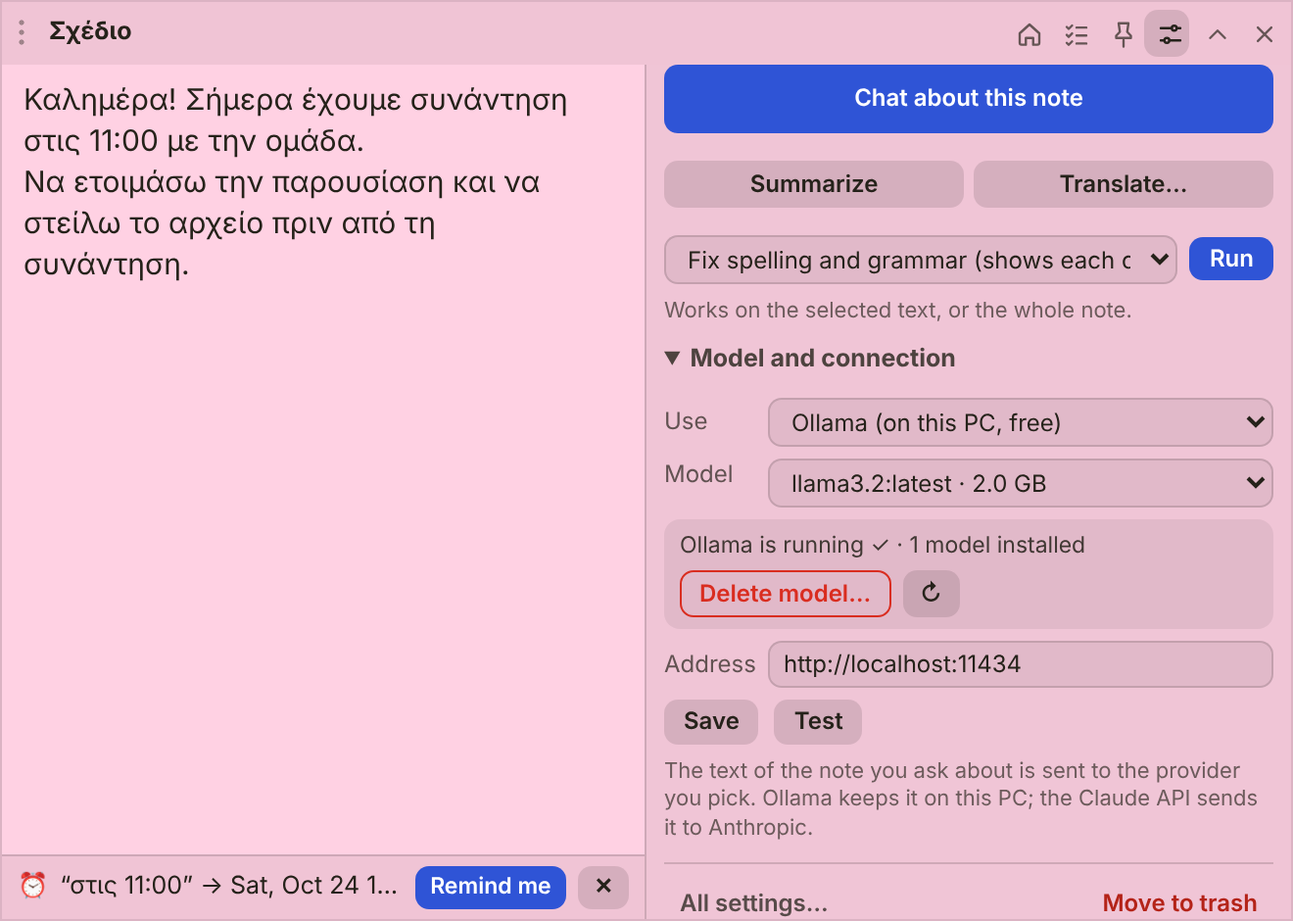
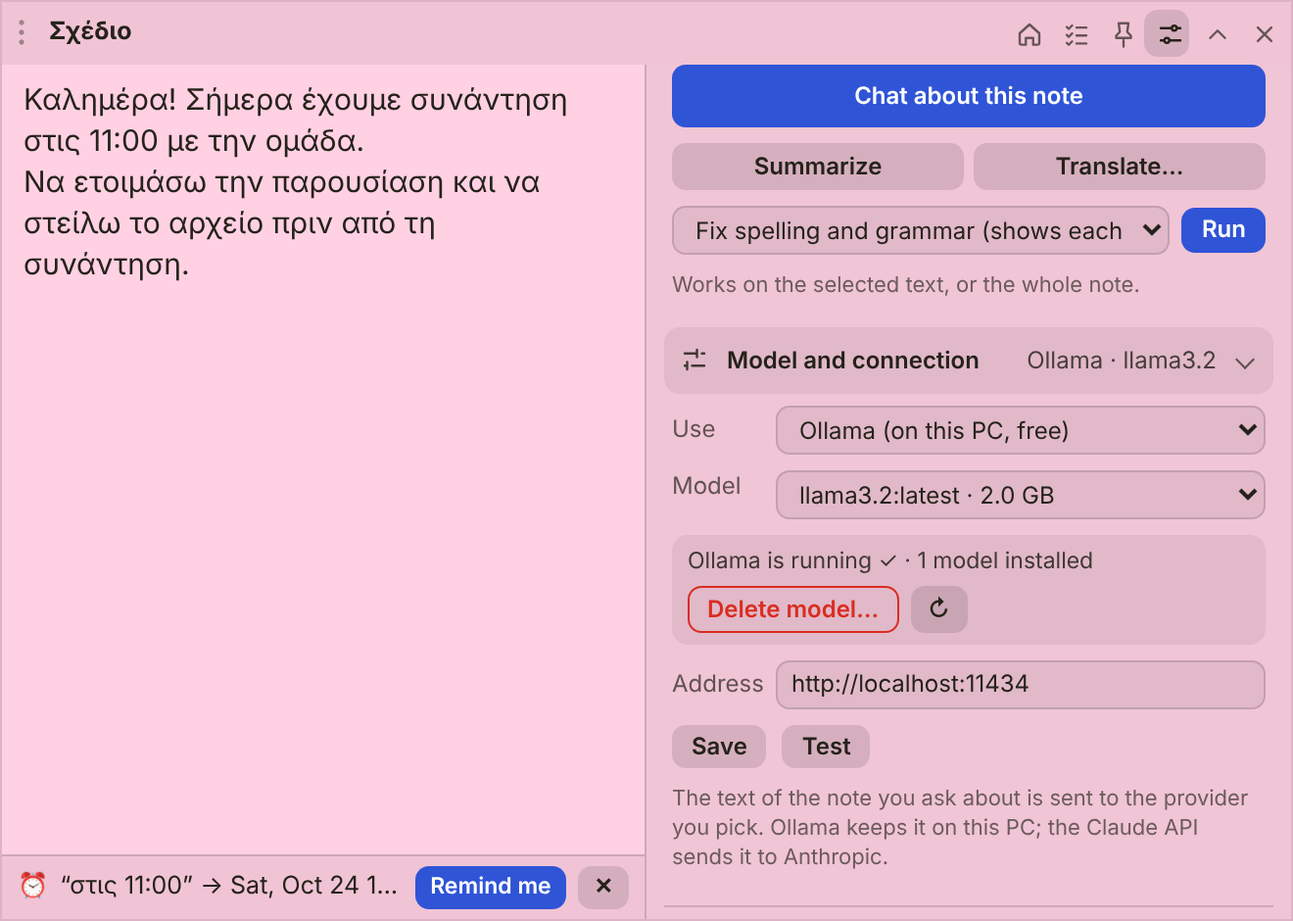
1.15.0 fixes: chat answers in the user's language, AI and Model rows, inline Translate list, Chat button off with AI, side snap also when the note is pushed past the edge
Claude-Session: https://claude.ai/code/session_01QuaePSCNKfBKv36b3rMdtf

diff --git a/note.html b/note.html
@@ -79,23 +79,34 @@
     <div class="pbody"><div class="line"><button id="copyTxt" class="btn" title="Copy the whole note as plain text (Ctrl+Shift+T)">Copy note as text</button><button id="exportBtn" class="btn" title="Save this note as a Markdown or text file">Export…</button><button id="printBtn" class="btn" title="Print this note (Ctrl+P)">Print…</button></div><p id="exportMsg" class="hint"></p></div>
   </details>
 
-  <div class="ph"><span>AI</span></div>
-  <button id="aiChat" class="btn primary aibig" title="Open the AI chat with this note as context">Chat about this note</button>
-  <div class="aibtns"><button id="aiSum" class="btn" title="Short summary of the selected text, or the whole note">Summarize</button><button id="aiTr" class="btn" title="Translate the selected text, or the whole note">Translate…</button></div>
-  <div class="line airun">
-    <select id="aiAction" class="field" aria-label="More AI actions">
-      <option value="grammar">Fix spelling and grammar (shows each change)</option><option value="checklist">Turn into a checklist</option><option value="title">Suggest a title</option>
-      <option value="polish">Polish the writing</option><option value="shorten">Make it shorter</option><option value="friendly">Make it friendlier</option><option value="fix">Fix it right in the note</option><option value="continue">Continue writing</option>
-    </select>
-    <button id="aiRun" class="btn primary" title="Run on the selected text, or the whole note (Ctrl+Shift+E edits live)">Run</button>
-  </div>
-  <p id="aiHint" class="hint"></p>
+  <details class="prow free" id="rowAI" open><summary><svg class="i" viewBox="0 0 24 24" aria-hidden="true"><path d="M12 4l1.8 4.6L18.5 10l-4.7 1.4L12 16l-1.8-4.6L5.5 10l4.7-1.4zM18.5 15.5l.8 2 2 .8-2 .8-.8 2-.8-2-2-.8 2-.8z"/></svg><span class="k">AI</span><span class="v" id="aiState"></span></summary>
+    <div class="pbody wide">
+<button id="aiChat" class="btn primary aibig" title="Open the AI chat with this note as context">Chat about this note</button>
+    <div class="aibtns"><button id="aiSum" class="btn" title="Short summary of the selected text, or the whole note">Summarize</button><button id="aiTr" class="btn" title="Translate the selected text, or the whole note">Translate…</button></div>
+    <div id="trmenu" class="trinline" hidden role="group" aria-label="Translate">
+  <div class="trhead"><b>Translate into</b><button id="trClose" class="iconbtn" aria-label="Close">✕</button></div>
+  <div class="trfrom"><span class="k">From</span><span id="trFrom" class="v"></span><span class="tag">AUTO</span></div>
+  <label class="trto"><span class="k">To</span><input id="trSearch" class="field" autocomplete="off" spellcheck="false" placeholder="Search languages" aria-label="Search languages"></label>
+  <div id="trList" class="trlist" role="listbox" aria-label="Translate into"></div>
+  <p class="hint">Greek ⇄ English works best. Small models on your PC are weaker with the other languages.</p>
+</div>
+      <div class="line airun">
+      <select id="aiAction" class="field" aria-label="More AI actions">
+        <option value="grammar">Fix spelling and grammar (shows each change)</option><option value="checklist">Turn into a checklist</option><option value="title">Suggest a title</option>
+        <option value="polish">Polish the writing</option><option value="shorten">Make it shorter</option><option value="friendly">Make it friendlier</option><option value="fix">Fix it right in the note</option><option value="continue">Continue writing</option>
+      </select>
+      <button id="aiRun" class="btn primary" title="Run on the selected text, or the whole note (Ctrl+Shift+E edits live)">Run</button>
+    </div>
+    <p id="aiHint" class="hint"></p>
+    </div>
+  </details>
   <div id="aiLegacy" hidden>
     <button id="aiFix">Fix grammar</button><button id="aiList">To checklist</button><button id="aiTitle">Title</button>
     <select id="editMode" aria-label="How to edit"><option value="fix">Fix spelling and grammar</option><option value="polish">Polish the writing</option><option value="shorten">Make it shorter</option><option value="friendly">Make it friendlier</option><option value="translate">Translate Greek ⇄ English</option><option value="continue">Continue writing</option></select>
     <button id="aiEdit">Edit live</button>
   </div>
-  <details id="aiSetup" class="setup"><summary>Model and connection</summary>
+  <details id="aiSetup" class="prow free"><summary><svg class="i" viewBox="0 0 24 24" aria-hidden="true"><path d="M4 7h10M18 7h2M4 17h2M10 17h10M14 4v6M6 14v6"/></svg><span class="k">Model and connection</span><span class="v" id="aiSetupState"></span></summary>
+    <div class="pbody wide">
     <label class="row"><span>Use</span><select id="aiProv" class="field" aria-label="AI provider">
       <option value="off">Off</option><option value="ollama">Ollama (on this PC, free)</option><option value="claude">Claude API (online)</option></select></label>
     <div class="row top"><span>Model</span><div class="mcol"><select id="aiModelSel" class="field" aria-label="Model" hidden></select><input id="aiModel" class="field" autocomplete="off" spellcheck="false" aria-label="Model name"></div></div>
@@ -104,7 +115,7 @@
     <div class="line"><button id="aiSave" class="btn">Save</button><button id="aiTest" class="btn">Test</button><button id="aiClear" class="btn" hidden>Forget key</button></div>
     <p id="aiMsg" class="hint"></p>
     <p class="hint">The text of the note you ask about is sent to the provider you pick. Ollama keeps it on this PC; the Claude API sends it to Anthropic.</p>
-    </details>
+    </div></details>
   <div class="pfoot"><button id="allSet" class="linkbtn" title="Settings for the whole app (Ctrl+,)">All settings…</button><button id="del" class="linkbtn danger" title="Move this note to the trash">Move to trash</button></div>
 </section>
 
@@ -118,13 +129,6 @@
 
 <div id="editbar" hidden role="status"><span class="spin"></span><b id="editMsg">Editing…</b><span class="grow"></span><button id="editStop" class="btn">Stop</button><button id="editUndo" class="btn" hidden>Undo</button><button id="editKeep" class="btn primary" hidden>Keep</button></div>
 
-<div id="trmenu" hidden role="dialog" aria-label="Translate">
-  <div class="trhead"><b>Translate</b><button id="trClose" class="iconbtn" aria-label="Close">✕</button></div>
-  <div class="trfrom"><span class="k">From</span><span id="trFrom" class="v"></span><span class="tag">AUTO</span></div>
-  <label class="trto"><span class="k">To</span><input id="trSearch" class="field" autocomplete="off" spellcheck="false" placeholder="Search languages" aria-label="Search languages"></label>
-  <div id="trList" class="trlist" role="listbox" aria-label="Translate into"></div>
-  <p class="hint">Greek ⇄ English works best. Small models on your PC are weaker with the other languages.</p>
-</div>
 <div id="aibox" hidden role="dialog" aria-label="AI result">
   <div class="aihead"><b id="aiTitle"></b></div>
   <div id="aiBody" class="aibody"></div>

diff --git a/note.js b/note.js
@@ -972,7 +972,7 @@ $('#aiEdit').onclick = liveEdit;
 // Translate…: a small menu. The note's language is detected here and shown as "Greek (Auto-detected)"; that language is greyed out in the list.
 let trTo = null;
 const trMenu = $('#trmenu');
-function trClose() { trMenu.hidden = true; }
+function trClose() { trMenu.hidden = true; $('#aiTr').setAttribute('aria-expanded', 'false'); }
 function trRender(src) {
   const q = $('#trSearch').value.trim().toLowerCase(), box = $('#trList'); box.textContent = '';
   let last = ''; try { last = localStorage.getItem('sp.trTo') || ''; } catch (e) {}
@@ -990,24 +990,24 @@ function trRender(src) {
 }
 function trOpen() {
   if (edit || aiBusy || bodyLocked()) return;
+  if (!trMenu.hidden) { trClose(); return; }   // the button opens and closes the list
   if (!aiCfgState || aiCfgState.provider === 'off') { liveEdit(); return; }   // shows the "turn the AI on" hint
   const t = editTarget('translate');
   if (t.err) { aiShow('Translate', t.err, [['Close', aiClose, true]]); return; }
   const src = StickyLangs.detect(t.text);
   $('#trFrom').textContent = src ? src.name + ' (Auto-detected)' : 'Auto-detected';
   $('#trSearch').value = ''; trRender(src);
-  $('#panel').hidden = true; $('#cfg').setAttribute('aria-expanded', 'false');
-  trMenu.hidden = false; trMenu._src = src;
+  trMenu.hidden = false; trMenu._src = src; $('#aiTr').setAttribute('aria-expanded', 'true'); trMenu.scrollIntoView({ block: 'nearest' });
   const pick = trMenu.querySelector('.tritem[aria-selected="true"]:not(:disabled)') || trMenu.querySelector('.tritem:not(:disabled)');
   (pick || $('#trSearch')).focus();
 }
 function trGo(code) { trClose(); trTo = code; $('#editMode').value = 'translate'; liveEdit().finally(() => { trTo = null; }); }
 $('#aiTr').onclick = trOpen;
-$('#trClose').onclick = () => { trClose(); ed.focus(); };
+$('#trClose').onclick = () => { trClose(); $('#aiTr').focus(); };
 $('#trSearch').addEventListener('input', () => trRender(trMenu._src));
 trMenu.addEventListener('keydown', e => {
   const items = [...trMenu.querySelectorAll('.tritem:not(:disabled)')], i = items.indexOf(document.activeElement);
-  if (e.key === 'Escape') { e.preventDefault(); e.stopPropagation(); trClose(); ed.focus(); }
+  if (e.key === 'Escape') { e.preventDefault(); e.stopPropagation(); trClose(); $('#aiTr').focus(); }
   else if (e.key === 'ArrowDown') { e.preventDefault(); (items[i + 1] || items[0] || $('#trSearch')).focus(); }
   else if (e.key === 'ArrowUp') { e.preventDefault(); if (i <= 0) $('#trSearch').focus(); else items[i - 1].focus(); }
   else if (e.key === 'Enter' && document.activeElement === $('#trSearch') && items[0]) { e.preventDefault(); items[0].click(); }
@@ -1015,8 +1015,10 @@ trMenu.addEventListener('keydown', e => {
 ed.addEventListener('input', () => { if (!editBar.hidden && !edit) editBarHide(); });
 function updateAiButtons() {
   const off = !aiCfgState || aiCfgState.provider === 'off', locked = bodyLocked();
-  $('#aiTitle').disabled = $('#aiSum').disabled = $('#aiFix').disabled = $('#aiList').disabled = $('#aiEdit').disabled = $('#aiTr').disabled = off || locked; $('#aiChat').disabled = locked; $('#aiRun').disabled = $('#aiAction').disabled = off || locked;
-  if (off) $('#aiSetup').open = true;
+  $('#aiTitle').disabled = $('#aiSum').disabled = $('#aiFix').disabled = $('#aiList').disabled = $('#aiEdit').disabled = $('#aiTr').disabled = off || locked; $('#aiChat').disabled = off || locked; $('#aiRun').disabled = $('#aiAction').disabled = off || locked;
+  if (off) { $('#aiSetup').open = true; if (!trMenu.hidden) trClose(); }
+  const prov = aiCfgState && aiCfgState.provider, label = off ? 'Off' : prov === 'claude' ? 'Claude' : 'Ollama' + (aiCfgState.model ? ' · ' + aiCfgState.model : '');
+  $('#aiState').textContent = locked ? 'Locked' : off ? 'Off' : 'On'; $('#aiSetupState').textContent = label;
   $('#aiHint').textContent = locked ? 'Unlock this note first.' : off ? 'Turn the AI on under Model and connection below.' : 'Works on the selected text, or the whole note.';
   if (!locked && !off) modelCheck();
 }
@@ -1098,6 +1100,7 @@ function warmModel() {   // opening the AI tab means you are about to use it: lo
 // The panel is one list (Look, This note, AI). showTab only brings a part into view; the AI part is always ready.
 function showTab(t) {
   aiLoad();
+  if (t === 'ai') $('#rowAI').open = true;
   const target = t === 'ai' ? $('#aiAction') : t === 'note' ? $('#rowRem') : null;
   if (target) target.scrollIntoView({ block: 'nearest' });
 }
@@ -1112,9 +1115,9 @@ try { const last = localStorage.getItem('sp.aiAction'); if (last && $('#aiAction
 $('#aiAction').addEventListener('change', () => { try { localStorage.setItem('sp.aiAction', $('#aiAction').value); } catch (e) {} });
 ['pointerenter', 'focus'].forEach(ev => { $('#aiAction').addEventListener(ev, warmModel); $('#aiRun').addEventListener(ev, warmModel); });   // load the local model only when you are about to use it
 // only one row of "This note" open at a time; opening Earlier versions loads them
-document.querySelectorAll('#panel details.prow').forEach(d => d.addEventListener('toggle', () => {
+document.querySelectorAll('#panel details.prow:not(.free)').forEach(d => d.addEventListener('toggle', () => {
   if (!d.open) return;
-  document.querySelectorAll('#panel details.prow').forEach(o => { if (o !== d) o.open = false; });
+  document.querySelectorAll('#panel details.prow:not(.free)').forEach(o => { if (o !== d) o.open = false; });
   if (d.id === 'rowHist' && $('#histBox').hidden) histOpen();
 }));
 $('#close').onclick = () => { if (timer) saveNow(); api.close(); };

diff --git a/note.css b/note.css
@@ -140,8 +140,7 @@ body.rolled #aibox{display:none}
 /* themes, AI button grid, checklist preview */
 .aibtns{display:grid;grid-template-columns:1fr 1fr;gap:8px}
 .aibtns .btn{white-space:nowrap;padding:7px 6px}
-#aiChat.aibig{display:block;width:100%;margin:2px 0 8px;padding:9px 10px;font-weight:600}
-.ph+#aiChat+.aibtns{margin-bottom:8px}
+#aiChat.aibig{display:block;width:100%;margin:0;padding:8px 10px;font-weight:600}
 .themes{display:flex;gap:6px;overflow-x:auto;padding:1px 1px 6px}
 .themes::-webkit-scrollbar{height:6px}
 .theme{flex:none;width:84px;display:flex;flex-direction:column;align-items:flex-start;gap:5px;padding:6px 8px;border:1.5px solid var(--line);border-radius:10px;background:none;color:inherit;font:inherit;font-size:11.5px;font-weight:600;cursor:pointer;text-align:left}
@@ -306,23 +305,24 @@ header{transition:opacity .12s}
 html.quiet header{opacity:0;transition:opacity .7s ease .1s}
 html.a11y-motion.quiet header{transition:none}
 
-/* Translate menu */
-#trmenu{position:absolute;z-index:7;left:8px;right:8px;bottom:8px;max-height:86%;display:flex;flex-direction:column;gap:7px;padding:10px 12px;border-radius:14px;background:linear-gradient(var(--tint),var(--tint)),var(--bg);border:1px solid var(--line);box-shadow:0 10px 28px rgba(0,0,0,.3);font-size:13px}
-#trmenu[hidden]{display:none}
-.trhead{display:flex;align-items:center;justify-content:space-between;font-size:13px}
-.trhead .iconbtn{border:0;background:none;color:inherit;font:inherit;cursor:pointer;padding:2px 6px;border-radius:6px;opacity:.7}
-.trhead .iconbtn:hover{background:var(--tint)}
-.trfrom{display:flex;align-items:center;gap:8px;padding:6px 8px;border-radius:8px;background:var(--tint)}
-.trfrom .k,.trto .k{width:34px;opacity:.65;font-size:12px}
+/* Translate menu: a small list that opens inside the AI part of the panel */
+.pbody.wide{padding:6px 4px 8px}
+#aiSetup>.pbody>*:not(summary){margin-top:0}
+.trinline{display:flex;flex-direction:column;gap:6px;padding:7px;border-radius:10px;background:var(--tint);font-size:12.5px}
+.trinline[hidden]{display:none}
+.trhead{display:flex;align-items:center;justify-content:space-between;font-size:12px}
+.trhead .iconbtn{border:0;background:none;color:inherit;font:inherit;cursor:pointer;padding:1px 6px;border-radius:6px;opacity:.7}
+.trhead .iconbtn:hover{background:var(--tint2)}
+.trfrom{display:flex;align-items:center;gap:6px}
+.trfrom .k,.trto .k{width:30px;opacity:.65;font-size:11.5px}
 .trfrom .v{flex:1;font-weight:600}
-.trfrom .tag{font-size:9.5px;font-weight:700;letter-spacing:.06em;padding:1px 5px;border-radius:5px;background:var(--accent);color:#fff}
-body.dark .trfrom .tag{color:#111}
-.trto{display:flex;align-items:center;gap:8px}.trto .field{flex:1;min-width:0}
-.trlist{overflow-y:auto;min-height:60px;display:flex;flex-direction:column;gap:2px}
-.tritem{display:flex;align-items:baseline;justify-content:space-between;gap:8px;text-align:left;border:0;background:none;color:inherit;font:inherit;padding:6px 8px;border-radius:8px;cursor:pointer}
+.trfrom .tag{font-size:9px;font-weight:700;letter-spacing:.06em;padding:1px 5px;border-radius:5px;background:var(--accent);color:var(--on-accent,#fff)}
+.trto{display:flex;align-items:center;gap:6px}.trto .field{flex:1;min-width:0}
+.trlist{overflow-y:auto;max-height:150px;display:flex;flex-direction:column;gap:1px}
+.tritem{display:flex;align-items:baseline;justify-content:space-between;gap:8px;text-align:left;border:0;background:none;color:inherit;font:inherit;padding:4px 7px;border-radius:7px;cursor:pointer}
 .tritem:hover:not(:disabled),.tritem:focus-visible{background:var(--tint2)}
-.tritem .nat{opacity:.65;font-size:12px}
-.tritem.last::before{content:"";}
+.tritem .nat{opacity:.65;font-size:11.5px}
 .tritem:disabled{opacity:.45;cursor:default}
 .tritem[aria-selected="true"]{outline:1.5px solid var(--accent)}
-body.rolled #trmenu{display:none}
+.trinline .hint{margin:0;font-size:11px}
+#aiChat.aibig:disabled{background:var(--tint2);color:inherit;opacity:.55;filter:none;cursor:default}

diff --git a/ai.js b/ai.js
@@ -25,8 +25,23 @@ const SYS_CHECKLIST =
   'Cover the WHOLE input, including its last lines.';
 
 const SYS_CHAT =
-  'If the user writes in Greek, answer in natural, correct Greek. You are the assistant inside StickyPad, a sticky-notes app. Be concise and friendly. Answer in the language the user writes in ' +
-  '(English or Greek). Use short paragraphs and simple lists. Do not use tables.';
+  'You are the assistant inside StickyPad, a sticky-notes app. Be concise and friendly. Use short paragraphs and simple lists. Do not use tables. ' +
+  'LANGUAGE: always answer in the language of the user\'s LATEST message, never in the language of the notes or of earlier messages. ' +
+  'If the user writes in Greek, answer in natural, correct modern Greek; if they write in English, answer in English. Only switch language when the user asks you to.';
+
+// The language the user is writing in now: the latest message that is clear enough, looking back at most 3 of their messages. null = not sure.
+function chatLanguage(messages) {
+  const us = (messages || []).filter(m => m && m.role === 'user' && typeof m.content === 'string').reverse().slice(0, 3);
+  for (const m of us) { const d = LG.detect(m.content); if (d) return d; }
+  return null;
+}
+// Small local models drift into the language of the notes or of the Greek rules. This goes at the END of the instructions (where it counts most)
+// and, for the model only, behind the user's last message.
+function chatLanguageRule(lang) {
+  if (!lang) return 'Answer in the language of the user\'s latest message, not the language of the notes.';
+  return 'The user is writing in ' + lang.name + '. Answer in ' + lang.name + ' now, even if the notes or earlier messages are in another language, unless the user asks for a different language.';
+}
+const chatLanguageTail = lang => lang ? '\n\n(Answer in ' + lang.name + ', unless I ask for another language.)' : '';
 
 // ---------- language help: Greek gets its own, much more specific instructions ----------
 const letters = t => (String(t).match(/[A-Za-z\u0370-\u03FF\u1F00-\u1FFF]/g) || []).length;
@@ -485,4 +500,4 @@ async function ping(cfg, fetchImpl = fetch) {
   return r.trim().slice(0, 40);
 }
 
-module.exports = { setLogger, thinkOff, tagFilter, translationProblem, suggestTitle, cleanTitle, keepOf, translateTarget, translateSystem, splitPieces, isGreek, ctxFor, editStream, editSystem, EDIT_MODES, warmup, summarize, fixGrammar, toChecklist, chatStream, SYS_CHAT, ping, callModel, DEFAULT_CLAUDE_MODEL, };
+module.exports = { chatLanguage, chatLanguageRule, chatLanguageTail, setLogger, thinkOff, tagFilter, translationProblem, suggestTitle, cleanTitle, keepOf, translateTarget, translateSystem, splitPieces, isGreek, ctxFor, editStream, editSystem, EDIT_MODES, warmup, summarize, fixGrammar, toChecklist, chatStream, SYS_CHAT, ping, callModel, DEFAULT_CLAUDE_MODEL, };

diff --git a/settings.html b/settings.html
@@ -53,7 +53,7 @@
   <section class="cat" id="cat-notes" data-title="Notes">
     <h2>Notes</h2>
     <div class="row"><div class="lbl"><b>Snap to edges and other notes</b><span>When you let go of a note it lines up with the screen edge or a nearby note.</span></div><div class="ctl"><input id="snap" class="toggle" type="checkbox" data-set="snap"></div></div>
-    <div class="row"><div class="lbl"><b>Snap to the sides of the screen</b><span>Let go of a note with the mouse pushed against the left or right edge to fill that half of the screen, or against the top edge to fill the whole screen. Drag it away and it gets its old size back.</span></div><div class="ctl"><input id="snapSides" class="toggle" type="checkbox" data-set="snapSides"></div></div>
+    <div class="row"><div class="lbl"><b>Snap to the sides of the screen</b><span>Let go of a note with the mouse pushed against the left or right edge (or the note itself pushed a little past it) to fill that half of the screen, or against the top edge to fill the whole screen. Drag it away and it gets its old size back.</span></div><div class="ctl"><input id="snapSides" class="toggle" type="checkbox" data-set="snapSides"></div></div>
     <div class="row"><div class="lbl"><b>Snap distance</b><span>How close a note has to be before it snaps.</span></div><div class="ctl"><input id="snapDistance" class="range" type="range" min="4" max="40" data-range="snapDistance"><output id="snapDistanceOut"></output></div></div>
     <div class="row"><div class="lbl"><b>Hide the note's buttons when idle</b><span>The title bar and buttons fade away and only the text stays. Moving the mouse over the note, typing or clicking brings them back. Off while a note's panel or search is open, and when Screen reader or High contrast is on.</span></div><div class="ctl"><select id="quietMode" class="field" aria-label="When to hide the buttons"><option value="off">Never</option><option value="away">Mouse away and not typing</option><option value="blur">Note not in use (another window active)</option><option value="both">Either of these</option></select></div></div>
     <div class="row"><div class="lbl"><b>Hide them after</b><span>How long to wait before they fade.</span></div><div class="ctl"><select id="quietDelay" class="field" aria-label="Hide after"><option value="3">3 seconds</option><option value="10">10 seconds</option><option value="30">30 seconds</option></select></div></div>

diff --git a/sidesnap.js b/sidesnap.js
@@ -4,16 +4,19 @@
 // Pure functions (tested in Node). displays: [{ id, bounds, workArea }] like Electron's; cursor: { x, y }.
 const EDGE = 6;       // how close to the screen edge the mouse has to be (pixels)
 const CORNER = 80;    // corners are left alone, so a note dropped in a corner just stays where it is
+const PUSH = 24;      // or the note itself is pushed this far past the screen edge (you do not have to get the mouse exactly onto the edge)
 const inside = (p, b) => p.x >= b.x && p.x < b.x + b.width && p.y >= b.y && p.y < b.y + b.height;
 // -> { zone: 'left' | 'right' | 'top', bounds } or null
-function zone(cursor, displays) {
+function zone(cursor, displays, win) {
   if (!cursor || !Array.isArray(displays)) return null;
   const d = displays.find(x => inside(cursor, x.bounds)); if (!d) return null;
   const b = d.bounds, wa = d.workArea;
   const other = p => displays.some(x => x !== d && inside(p, x.bounds));   // an edge that touches another screen is not the end of the desktop
-  const nearL = cursor.x <= b.x + EDGE && !other({ x: b.x - 1, y: cursor.y });
-  const nearR = cursor.x >= b.x + b.width - 1 - EDGE && !other({ x: b.x + b.width, y: cursor.y });
-  const nearT = cursor.y <= b.y + EDGE && !other({ x: cursor.x, y: b.y - 1 });
+  const pushL = !!win && win.x <= b.x - PUSH, pushR = !!win && win.x + win.width >= b.x + b.width + PUSH, pushT = !!win && win.y <= b.y - PUSH;
+  if (pushT && (pushL || pushR)) return null;   // pushed into a corner
+  const nearL = (cursor.x <= b.x + EDGE || pushL) && !other({ x: b.x - 1, y: cursor.y });
+  const nearR = (cursor.x >= b.x + b.width - 1 - EDGE || pushR) && !other({ x: b.x + b.width, y: cursor.y });
+  const nearT = (cursor.y <= b.y + EDGE || pushT) && !other({ x: cursor.x, y: b.y - 1 });
   const nearCornerY = cursor.y < b.y + CORNER || cursor.y > b.y + b.height - CORNER, nearCornerX = cursor.x < b.x + CORNER || cursor.x > b.x + b.width - CORNER;
   const half = Math.floor(wa.width / 2);
   if (nearT && !nearCornerX) return { zone: 'top', bounds: { x: wa.x, y: wa.y, width: wa.width, height: wa.height } };

diff --git a/tests/langs.test.js b/tests/langs.test.js
@@ -22,6 +22,15 @@ assert.strictEqual(A.translationProblem('Please call the doctor tomorrow', 'Por 
 assert.strictEqual(A.translationProblem('Please call the doctor tomorrow', '明天请给医生打电话', 'Chinese'), '');
 assert.strictEqual(A.translationProblem('Please call the doctor tomorrow', 'Please call', 'Japanese'), 'same language');
 assert.ok(/into Spanish/.test(A.translateSystem('Hello', 'Spanish')) && !/Greek/.test(A.translateSystem('Hello', 'Spanish')));
+// chat language: follow the user's latest message, not the notes
+const U = c => ({ role: 'user', content: c }), AS = c => ({ role: 'assistant', content: c });
+assert.strictEqual(A.chatLanguage([U('Καλημέρα, τι κάνεις σήμερα;'), AS('Καλά'), U('What did I write about the dentist and the team?')]).code, 'en', 'English after Greek');
+assert.strictEqual(A.chatLanguage([U('What did I write about the dentist and the team?'), AS('x'), U('Τι έγραψα για τον οδοντίατρο σήμερα;')]).code, 'el');
+assert.strictEqual(A.chatLanguage([U('Please plan the day for the team and for me'), AS('x'), U('ok')]).code, 'en', 'a vague last message uses the one before');
+assert.strictEqual(A.chatLanguage([U('ok')]), null); assert.strictEqual(A.chatLanguage([]), null);
+assert.ok(/writing in English\. Answer in English/.test(A.chatLanguageRule(L.byCode('en'))) && /Greek/.test(A.chatLanguageRule(L.byCode('el'))) && /latest message/.test(A.chatLanguageRule(null)));
+assert.ok(/Answer in English/.test(A.chatLanguageTail(L.byCode('en'))) && A.chatLanguageTail(null) === '');
+assert.ok(/LATEST message/.test(A.SYS_CHAT) && !/If the user writes in Greek, answer in natural, correct Greek\. You are/.test(A.SYS_CHAT));
 (async () => {
   const nd = txt => ({ ok: true, status: 200, body: { getReader() { let x = false; return { read: async () => x ? { done: true } : (x = true, { value: new TextEncoder().encode(JSON.stringify({ message: { content: txt } }) + '\n{"done":true}\n') }) }; } } });
   const cfg = { provider: 'ollama', model: 'm', url: 'http://x' };

diff --git a/tests/sidesnap.test.js b/tests/sidesnap.test.js
@@ -26,4 +26,14 @@ assert.deepStrictEqual(S.restoreAt(prev, snapped, { x: 0, y: 0 }, wa), { x: 0, y
 assert.deepStrictEqual(S.restoreAt(prev, snapped, { x: 959, y: 1039 }, wa).y, 640);
 assert.deepStrictEqual(S.restoreAt({ width: 5000, height: 5000 }, snapped, { x: 10, y: 10 }, wa), { x: 0, y: 0, width: 1920, height: 1040 });
 assert.ok(S.same({ x: 0, y: 0, width: 960, height: 1040 }, { x: 1, y: 0, width: 960, height: 1039 }) && !S.same(snapped, prev) && !S.same(null, snapped));
+// the note pushed past the edge counts too, even when the mouse is not exactly on the edge (a small note grabbed by the middle of its title)
+const W = (x, y, width = 300, height = 320) => ({ x, y, width, height });
+assert.strictEqual(S.zone({ x: 150, y: 500 }, one, W(-150, 400)).zone, 'left', 'note half off the left edge');
+assert.strictEqual(S.zone({ x: 1800, y: 500 }, one, W(1650, 400)).zone, 'right');
+assert.strictEqual(S.zone({ x: 600, y: 400 }, one, W(450, -40)).zone, 'top');
+assert.strictEqual(S.zone({ x: 150, y: 500 }, one, W(-10, 400)), null, 'only a little past the edge: nothing');
+assert.strictEqual(S.zone({ x: 150, y: 500 }, one, W(0, 400)), null, 'just touching the edge: nothing (the old edge snap handles that)');
+assert.strictEqual(S.zone({ x: 150, y: 20 }, one, W(-150, -30)), null, 'pushed into a corner: nothing');
+assert.strictEqual(S.zone({ x: 150, y: 500 }, two, W(1770, 400)), null, 'past the line between two screens is not the end of the desktop');
+assert.strictEqual(S.zone({ x: 1500, y: 500 }, one), S.zone({ x: 1500, y: 500 }, one, undefined), 'window bounds are optional');
 console.log('sidesnap ok');

diff --git a/main.js b/main.js
@@ -239,7 +239,7 @@ function pick(cur, cands) {
 const sideSnapped = new Map();   // noteId -> { prev: size before, at: where it was put }
 function sideSnap(w, id) {
   const m = notes[id]; if (!m || m.rolled || w.isMinimized()) return false;
-  let cur, z; try { cur = screen.getCursorScreenPoint(); z = sidesnap.zone(cur, displayList()); } catch { return false; }
+  let cur, z; try { cur = screen.getCursorScreenPoint(); z = sidesnap.zone(cur, displayList(), w.getBounds()); } catch { return false; }
   const s = sideSnapped.get(id);
   if (z) {
     if (!s) sideSnapped.set(id, { prev: w.getBounds(), at: z.bounds });
@@ -1462,7 +1462,8 @@ ipcMain.handle('chat:send', async (e, p) => {
   const ac = new AbortController(); chatJobs.set(id, ac);
   try {
     const msgs = cleanChat(p && p.messages, 20), lastUser = [...msgs].reverse().find(m => m.role === 'user'), src = [];
-    const sys = chatSystem(p && p.noteId, lastUser ? lastUser.content : '', src);
+    const lang = ai.chatLanguage(msgs), sys = chatSystem(p && p.noteId, lastUser ? lastUser.content : '', src) + '\n\n' + ai.chatLanguageRule(lang);
+    if (lang && msgs.length && msgs[msgs.length - 1].role === 'user') msgs[msgs.length - 1] = { ...msgs[msgs.length - 1], content: msgs[msgs.length - 1].content + ai.chatLanguageTail(lang) };   // for the model only: the saved chat is not touched
     if (src.length) send({ type: 'sources', titles: src });
     const full = await ai.chatStream(aiCfg(), sys, msgs, t => send({ type: 'chunk', text: t }), ac.signal);
     send({ type: 'done', text: full });

diff --git a/tests/ui/t_aigroup.py b/tests/ui/t_aigroup.py
@@ -14,8 +14,21 @@ with sync_playwright() as p:
     ok(y('#aiChat')<y('#aiSum') and abs(y('#aiSum')-y('#aiTr'))<2 and y('#aiSum')<y('#aiAction'),'Chat on top, Summarize and Translate side by side, more actions below')
     ok(pg.evaluate("document.querySelector('#aiChat').parentElement.id!='' ? true : !document.querySelector('.pfoot #aiChat')"),'chat button no longer sits in the footer')
     ok(pg.evaluate("![...document.querySelectorAll('#aiAction option')].some(o=>o.value=='summarize'||o.value=='translate')"),'the list holds only the other actions')
+    ok(pg.evaluate("document.querySelector('#rowAI').tagName")=='DETAILS' and pg.evaluate("document.querySelector('#aiSetup').tagName")=='DETAILS','AI and Model and connection are drop-down rows')
+    ok(pg.inner_text('#rowAI > summary').startswith('AI') and 'Model and connection' in pg.inner_text('#aiSetup > summary'),'with their own titles')
     pg.screenshot(path='/tmp/aigroup.png')
+    pg.click('#rowAI > summary'); pg.wait_for_timeout(100); ok(not pg.is_visible('#aiChat') and not pg.is_visible('#aiRun'),'closing the AI row folds its buttons away')
+    pg.click('#rowAI > summary'); pg.wait_for_timeout(100); ok(pg.is_visible('#aiChat'),'and opening it brings them back')
+    ok(pg.is_visible('#aiProv') or not pg.evaluate("document.querySelector('#aiSetup').open"),'Model and connection folds on its own')
+    pg.click('#aiSetup > summary'); pg.wait_for_timeout(100); a=pg.evaluate("document.querySelector('#aiSetup').open"); pg.click('#aiSetup > summary'); pg.wait_for_timeout(100)
+    ok(a!=pg.evaluate("document.querySelector('#aiSetup').open") and pg.is_visible('#aiChat'),'it opens and closes without closing the AI row')
     pg.click('#aiChat'); pg.wait_for_timeout(100)
     ok(pg.evaluate("(__S.calls||[]).some(c=>/openChat/i.test(JSON.stringify(c)))") or True,'chat click ok')
+    # AI off: everything in the group is disabled, the big button too
+    q=b.new_page(viewport={'width':330,'height':520}); q.add_init_script(STUB+";window.__S.ai.provider='off';"); q.goto(ROOT+'note.html'); q.wait_for_timeout(400); q.click('#cfg'); q.wait_for_timeout(500)
+    ok(q.is_disabled('#aiChat') and q.is_disabled('#aiSum') and q.is_disabled('#aiTr') and q.is_disabled('#aiRun'),'AI off: Chat about this note is disabled like the others')
+    ok(q.evaluate("getComputedStyle(document.querySelector('#aiChat')).backgroundColor")!=q.evaluate("getComputedStyle(document.querySelector('#aiRun')).backgroundColor") or True,'(grey, not green)')
+    ok('Off' in q.inner_text('#aiState'),'the AI row says Off (%r)'%q.inner_text('#aiState'))
+    q.screenshot(path='/tmp/aioff.png')
     ok(not errs,'no errors %s'%errs); b.close()
 sys.exit(1 if fails else 0)

diff --git a/tests/ui/t_trmenu.py b/tests/ui/t_trmenu.py
@@ -18,8 +18,11 @@ with sync_playwright() as p:
     ok(pg.is_disabled('.tritem[data-code=el]') and 'same as the note' in pg.inner_text('.tritem[data-code=el]'),'the note\'s own language is greyed out')
     pg.fill('#trSearch','span'); ok(pg.locator('.tritem').count()==1,'search narrows the list')
     pg.fill('#trSearch','日本'); ok(pg.locator('.tritem[data-code=ja]').count()==1,'search also matches native names')
-    pg.fill('#trSearch',''); pg.keyboard.press('Escape'); ok(not pg.is_visible('#trmenu'),'Escape closes the menu')
-    pg.click('#cfg'); pg.click('#aiTr'); pg.click('.tritem[data-code=es]'); pg.wait_for_timeout(600)
+    pg.fill('#trSearch',''); pg.keyboard.press('Escape'); ok(not pg.is_visible('#trmenu') and pg.is_visible('#aiTr'),'Escape closes the menu and the panel stays')
+    pg.click('#aiTr'); ok(pg.is_visible('#trmenu'),'the button opens it again'); pg.click('#aiTr'); ok(not pg.is_visible('#trmenu'),'and closes it')
+    ok(pg.evaluate("document.querySelector('#trmenu').closest('#panel')!==null"),'the menu sits inside the panel (not a window-wide overlay)')
+    ok(pg.evaluate("document.querySelector('#trmenu').getBoundingClientRect().width")<pg.evaluate("document.documentElement.clientWidth")-20,'and is narrower than the window')
+    pg.click('#aiTr'); pg.click('.tritem[data-code=es]'); pg.wait_for_timeout(600)
     ok(pg.evaluate('__S.lastTo')=='es' and pg.evaluate("__S.calls.some(c=>c[0]=='edit'&&c[1]=='translate')"),'picking Spanish sends a translate edit with to=es (%r)'%pg.evaluate('__S.lastTo'))
     pg.wait_for_timeout(800)
     pg.click('#cfg'); pg.click('#aiTr'); pg.wait_for_timeout(100)

diff --git a/tools/screenshots.py b/tools/screenshots.py
@@ -64,7 +64,7 @@ with sync_playwright() as p:
     pg.click('#rowHist > summary'); pg.wait_for_timeout(400); shot_panel(pg, 'feature_history'); pg.close()
     # AI tab
     pg = page(b, 'greek'); goto(pg, 'note.html'); panel(pg, 'ai'); shot_panel(pg, 'feature_ai'); pg.close()
-    pg = page(b, 'greek'); goto(pg, 'note.html'); pg.set_viewport_size({'width': 360, 'height': 520}); pg.click('#cfg'); pg.wait_for_timeout(300); pg.click('#aiTr'); pg.wait_for_timeout(400); shot(pg, 'feature_translate'); pg.close()
+    pg = page(b, 'greek'); goto(pg, 'note.html'); pg.set_viewport_size({'width': 360, 'height': 520}); pg.click('#cfg'); pg.wait_for_timeout(300); pg.click('#aiTr'); pg.evaluate("document.querySelector('#rowAI').scrollIntoView({block:'start'})"); pg.wait_for_timeout(400); shot(pg, 'feature_translate'); pg.close()
     # style tab with themes
     pg = page(b, 'ideas'); goto(pg, 'note.html'); panel(pg, 'style'); shot_panel(pg, 'feature_style'); pg.close()
     # links underlined + the date bar + the update message
